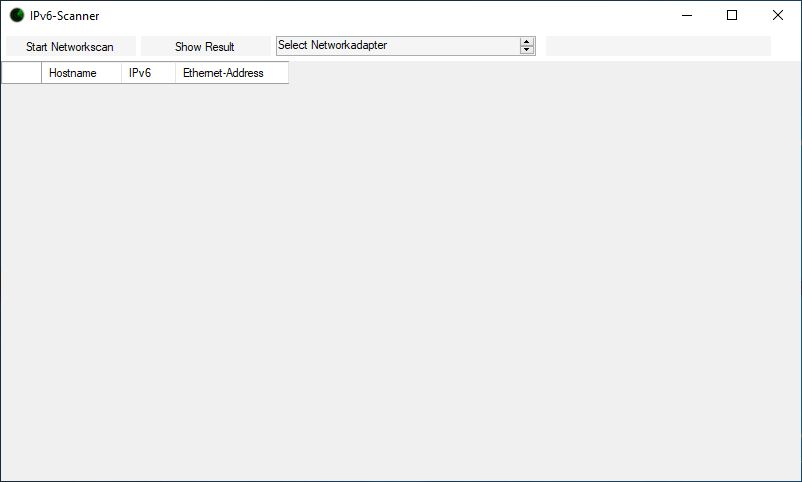
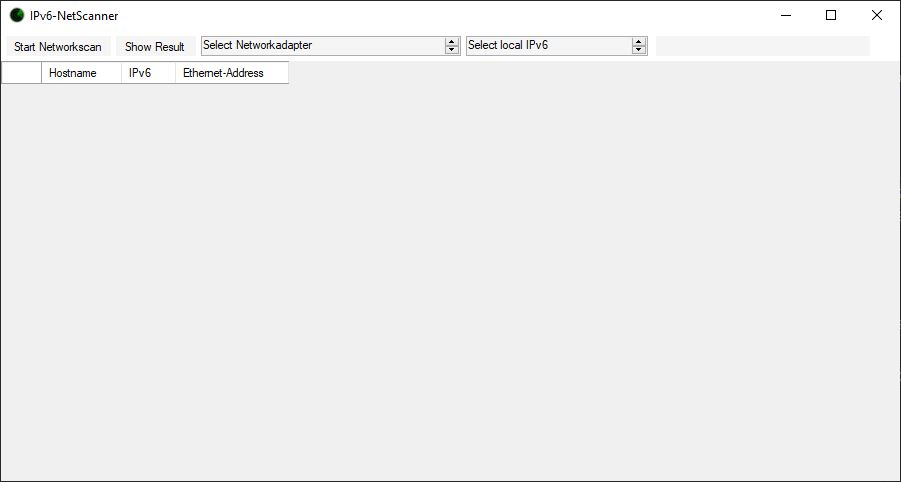
Design updated

diff --git a/src/MainForm.Designer.cs b/src/MainForm.Designer.cs
@@ -60,11 +60,13 @@ namespace IPv6_NetScanner
             this.panTop.Dock = System.Windows.Forms.DockStyle.Top;
             this.panTop.Location = new System.Drawing.Point(0, 0);
             this.panTop.Name = "panTop";
-            this.panTop.Size = new System.Drawing.Size(899, 30);
+            this.panTop.Size = new System.Drawing.Size(899, 35);
             this.panTop.TabIndex = 0;
             // 
             // dUpDoIP
             // 
+            this.dUpDoIP.Anchor = ((System.Windows.Forms.AnchorStyles)(((System.Windows.Forms.AnchorStyles.Top | System.Windows.Forms.AnchorStyles.Left) 
+            | System.Windows.Forms.AnchorStyles.Right)));
             this.dUpDoIP.BackColor = System.Drawing.Color.WhiteSmoke;
             this.dUpDoIP.Location = new System.Drawing.Point(465, 5);
             this.dUpDoIP.Name = "dUpDoIP";
@@ -76,24 +78,22 @@ namespace IPv6_NetScanner
             // 
             // lblInfo
             // 
-            this.lblInfo.Anchor = ((System.Windows.Forms.AnchorStyles)(((System.Windows.Forms.AnchorStyles.Top | System.Windows.Forms.AnchorStyles.Left) 
-            | System.Windows.Forms.AnchorStyles.Right)));
+            this.lblInfo.Anchor = ((System.Windows.Forms.AnchorStyles)((System.Windows.Forms.AnchorStyles.Top | System.Windows.Forms.AnchorStyles.Right)));
             this.lblInfo.BackColor = System.Drawing.Color.WhiteSmoke;
             this.lblInfo.FlatStyle = System.Windows.Forms.FlatStyle.Flat;
             this.lblInfo.Location = new System.Drawing.Point(655, 5);
             this.lblInfo.Name = "lblInfo";
-            this.lblInfo.Size = new System.Drawing.Size(214, 20);
+            this.lblInfo.Size = new System.Drawing.Size(215, 25);
             this.lblInfo.TabIndex = 4;
-            this.lblInfo.TextAlign = System.Drawing.ContentAlignment.MiddleLeft;
+            this.lblInfo.TextAlign = System.Drawing.ContentAlignment.MiddleRight;
             // 
             // btnShowHosts
             // 
             this.btnShowHosts.BackColor = System.Drawing.Color.WhiteSmoke;
-            this.btnShowHosts.FlatAppearance.BorderSize = 0;
             this.btnShowHosts.FlatStyle = System.Windows.Forms.FlatStyle.Flat;
             this.btnShowHosts.Location = new System.Drawing.Point(115, 5);
             this.btnShowHosts.Name = "btnShowHosts";
-            this.btnShowHosts.Size = new System.Drawing.Size(80, 20);
+            this.btnShowHosts.Size = new System.Drawing.Size(80, 25);
             this.btnShowHosts.TabIndex = 3;
             this.btnShowHosts.Text = "Show Result";
             this.btnShowHosts.UseVisualStyleBackColor = false;
@@ -113,11 +113,12 @@ namespace IPv6_NetScanner
             // picLoading
             // 
             this.picLoading.Anchor = ((System.Windows.Forms.AnchorStyles)((System.Windows.Forms.AnchorStyles.Top | System.Windows.Forms.AnchorStyles.Right)));
+            this.picLoading.BackColor = System.Drawing.Color.WhiteSmoke;
             this.picLoading.Image = global::IPv6_NetScanner.Properties.Resources.load;
-            this.picLoading.Location = new System.Drawing.Point(874, 5);
+            this.picLoading.Location = new System.Drawing.Point(870, 5);
             this.picLoading.Name = "picLoading";
-            this.picLoading.Size = new System.Drawing.Size(20, 20);
-            this.picLoading.SizeMode = System.Windows.Forms.PictureBoxSizeMode.StretchImage;
+            this.picLoading.Size = new System.Drawing.Size(25, 25);
+            this.picLoading.SizeMode = System.Windows.Forms.PictureBoxSizeMode.Zoom;
             this.picLoading.TabIndex = 1;
             this.picLoading.TabStop = false;
             this.picLoading.Visible = false;
@@ -125,11 +126,10 @@ namespace IPv6_NetScanner
             // btnScanNet
             // 
             this.btnScanNet.BackColor = System.Drawing.Color.WhiteSmoke;
-            this.btnScanNet.FlatAppearance.BorderSize = 0;
             this.btnScanNet.FlatStyle = System.Windows.Forms.FlatStyle.Flat;
             this.btnScanNet.Location = new System.Drawing.Point(5, 5);
             this.btnScanNet.Name = "btnScanNet";
-            this.btnScanNet.Size = new System.Drawing.Size(105, 20);
+            this.btnScanNet.Size = new System.Drawing.Size(105, 25);
             this.btnScanNet.TabIndex = 0;
             this.btnScanNet.Text = "Start Networkscan";
             this.btnScanNet.UseVisualStyleBackColor = false;
@@ -139,9 +139,9 @@ namespace IPv6_NetScanner
             // 
             this.panFill.Controls.Add(this.dataGV);
             this.panFill.Dock = System.Windows.Forms.DockStyle.Fill;
-            this.panFill.Location = new System.Drawing.Point(0, 30);
+            this.panFill.Location = new System.Drawing.Point(0, 35);
             this.panFill.Name = "panFill";
-            this.panFill.Size = new System.Drawing.Size(899, 420);
+            this.panFill.Size = new System.Drawing.Size(899, 415);
             this.panFill.TabIndex = 1;
             // 
             // dataGV
@@ -159,7 +159,7 @@ namespace IPv6_NetScanner
             this.dataGV.Dock = System.Windows.Forms.DockStyle.Fill;
             this.dataGV.Location = new System.Drawing.Point(0, 0);
             this.dataGV.Name = "dataGV";
-            this.dataGV.Size = new System.Drawing.Size(899, 420);
+            this.dataGV.Size = new System.Drawing.Size(899, 415);
             this.dataGV.TabIndex = 0;
             // 
             // Hostname
@@ -195,6 +195,7 @@ namespace IPv6_NetScanner
             this.Name = "MainForm";
             this.StartPosition = System.Windows.Forms.FormStartPosition.CenterScreen;
             this.Text = "IPv6-NetScanner";
+            this.WindowState = System.Windows.Forms.FormWindowState.Maximized;
             this.FormClosing += new System.Windows.Forms.FormClosingEventHandler(this.MainForm_FormClosing);
             this.Load += new System.EventHandler(this.MainForm_Load);
             this.panTop.ResumeLayout(false);

diff --git a/src/MainForm.cs b/src/MainForm.cs
@@ -27,17 +27,19 @@ namespace IPv6_NetScanner
             CheckForIllegalCrossThreadCalls = false;
             deviceList = CaptureDeviceList.Instance;
             localIPv6AddrCollection = getLocalIPs();
+
+            picLoading.Image = null;
         }
 
         private void btnScanNet_Click(object sender, EventArgs e)
         {
             if (liveDevice != null & localIPv6 != null)
             {
-                if (!picLoading.Visible)
+                if (picLoading.Image == null)
                 {
                     btnScanNet.Text = "Stop Networkscan";
                     lblInfo.Text = DateTime.Now.ToLongTimeString() + ": Scan started...";
-                    picLoading.Visible = true;
+                    picLoading.Image = IPv6_NetScanner.Properties.Resources.load;
                     scan.scanNetwork(this, liveDevice, localIPv6, multicastAddress);
 
                 }
@@ -45,7 +47,7 @@ namespace IPv6_NetScanner
                 {
                     btnScanNet.Text = "Start Networkscan";
                     lblInfo.Text = DateTime.Now.ToLongTimeString() + ": Scan stopped...";
-                    picLoading.Visible = false;
+                    picLoading.Image = null;
                     scan.stopScan();
                 }
             }
